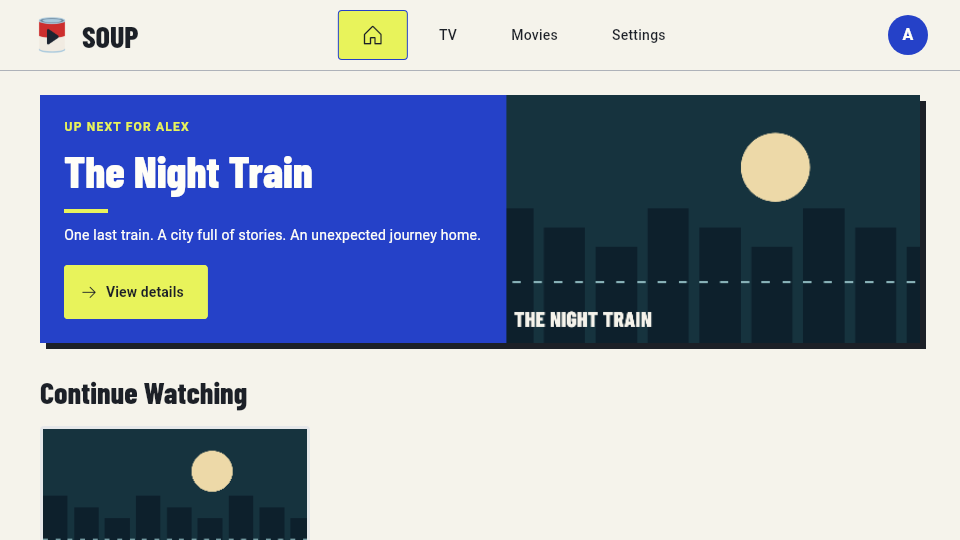
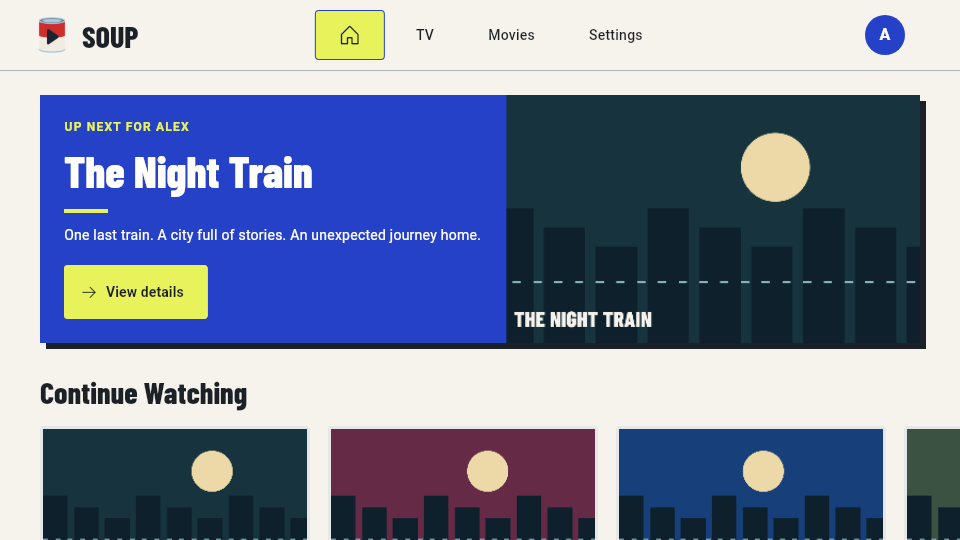
docs: showcase onboarding and Festival homepage (SOUP-96)

diff --git a/apps/android/test/festival_theme_test.dart b/apps/android/test/festival_theme_test.dart
@@ -93,7 +93,7 @@ void main() {
           final source = FakeLibrarySource(
             const JellyfinHome(
               libraries: [],
-              resume: [_movie],
+              resume: [_movie, ..._latest],
               latest: _latest,
             ),
           );

diff --git a/README.md b/README.md
@@ -4,6 +4,29 @@ Soup is a Jellyfin client that connects directly to your server or through an
 optional embedded Tailscale connection. Embedded Tailscale does not require a
 separate VPN app.
 
+## Screenshots
+
+The current Festival design, rendered from the app's Flutter widgets with sample
+accounts and library artwork. The QR and Quick Connect codes are demonstrations.
+
+### Onboarding on Android TV
+
+| Choose your connection | Connect with Tailscale (optional) |
+| --- | --- |
+| ![Welcome screen with the optional Tailscale switch](docs/screenshots/onboarding/welcome-tv.png) | ![Optional Tailscale setup with a demonstration authorization QR code](docs/screenshots/onboarding/tailscale-qr-tv.png) |
+
+| Add your server | Sign in |
+| --- | --- |
+| ![Server address entry with an HTTPS and HTTP selector](docs/screenshots/onboarding/jellyfin-server-tv.png) | ![Jellyfin sign-in with Quick Connect and username and password options](docs/screenshots/onboarding/jellyfin-sign-in-tv.png) |
+
+### Sample signed-in homepage
+
+![Festival homepage with a featured film and sample Continue Watching row](docs/screenshots/festival/home-light-tv.png)
+
+Browse the [complete onboarding gallery](docs/screenshots/onboarding/README.md)
+and [Festival gallery](docs/screenshots/festival/README.md) for phone layouts,
+additional setup steps, and light and dark themes.
+
 ## Supported target
 
 - Android 12+ mobile and Android TV: Flutter/Dart in `apps/android`.
@@ -11,19 +34,20 @@ separate VPN app.
 
 The Android prototype includes the complete setup path: optional embedded Tailscale,
 direct or authenticated app-local SOCKS5 networking, Jellyfin 10.11 discovery, and
-username/password sign-in. The UI depends on a substitutable `TailscaleClient`
-boundary and adapts between touch-sized phone layouts and D-pad-friendly TV
-layouts. After sign-in, Soup restores the secure session and loads My Media,
-Continue Watching, and Latest Media, including artwork, through the same
-selected connection. Libraries open into browsable grids, and item details
+Quick Connect or username/password sign-in. The UI depends on a substitutable
+`TailscaleClient` boundary and adapts between touch-sized phone layouts and
+D-pad-friendly TV layouts. After sign-in, Soup restores the secure session and loads Continue
+Watching, Recently Added Movies, and Recently Added TV, including artwork,
+through the same selected connection. Libraries open into browsable grids, and item details
 show artwork, metadata, overview, Play/Resume, plus season and episode navigation
 for series. Playback negotiates direct play with Jellyfin and falls back to HLS
 transcoding when required, with resume seeking, transport controls, progress
 reporting, and selectable WebVTT subtitles. The authenticated loopback playback
 bridge uses the same selected connection as the rest of the app. Tailscale setup
 uses an authorization QR code scanned with another device on both mobile and TV. Server
-address paste remains available, while connection and sign-in errors stay
-pinned above the scrollable form so they remain readable at constrained heights.
+entry separates the HTTPS/HTTP selector from the address and recognises a
+protocol typed into the field. Connection and sign-in errors stay pinned above
+the scrollable form so they remain readable at constrained heights.
 
 ## Customisable interface
 
@@ -113,13 +137,14 @@ sign-in QR code. Scan with another device and finish authorization. If device
 approval is required, Soup waits for the administrator; after connection,
 select **Next**. You can turn Tailscale off at any point in that connection step.
 
-Soup checks the server before asking for your username and password. **Back**
-lets you edit the server or connection choice. Both HTTP and HTTPS URLs are
-supported, with normal certificate validation and no automatic fallback from
-Tailscale to direct networking. Existing saved accounts remain on Tailscale
+Soup checks the server before offering Quick Connect (when enabled on the
+server) or username and password sign-in. **Back** lets you edit the server or
+connection choice. Both HTTP and HTTPS URLs are supported, with normal
+certificate validation and no automatic fallback from Tailscale to direct
+networking. Existing saved accounts remain on Tailscale
 until you explicitly change the connection choice.
 
-The warm, centered onboarding panel supports touch, D-pad focus, reduced motion,
+The onboarding layout supports touch, D-pad focus, reduced motion,
 and constrained TV heights. [Review screenshots and regeneration instructions](docs/screenshots/onboarding/README.md)
 are available for the actual Flutter widgets rendered with demonstration data.
 

diff --git a/docs/screenshots/onboarding/README.md b/docs/screenshots/onboarding/README.md
@@ -6,6 +6,10 @@ headings sit in crisp introduction panels with an offset print shadow; controls
 use small corners and a strong colour change for remote focus. Quick Connect and
 password sign-in share equal columns on TV and stack on phones.
 
+The gallery includes the SOUP-95 server entry update: an HTTPS/HTTP selector
+beside the address, with no dedicated paste button. SOUP-96 refreshes these
+captures for the root README.
+
 Fine diagonal frames and the bottom filmstrip edge are painted in a separate,
 noninteractive layer. A 36-second cycle updates at 20 fps without rebuilding
 forms or moving focus. Reduced motion, accessible navigation, inactive routes

diff --git a/docs/screenshots/festival/README.md b/docs/screenshots/festival/README.md
@@ -15,6 +15,9 @@ it; on phones it stacks above it. Copy is independent of artwork contrast.
 The Blockbuster layout retains its billboard and rail arrangement, with the
 same Festival colours and typography.
 
+SOUP-96 refreshes this gallery for the root README, including the focusable
+account button added in SOUP-95.
+
 These are production widget captures with bundled fonts and original geometric
 sample artwork drawn by the test fixture. Titles, account and library data are
 fictional. No real library images or account details are committed.
